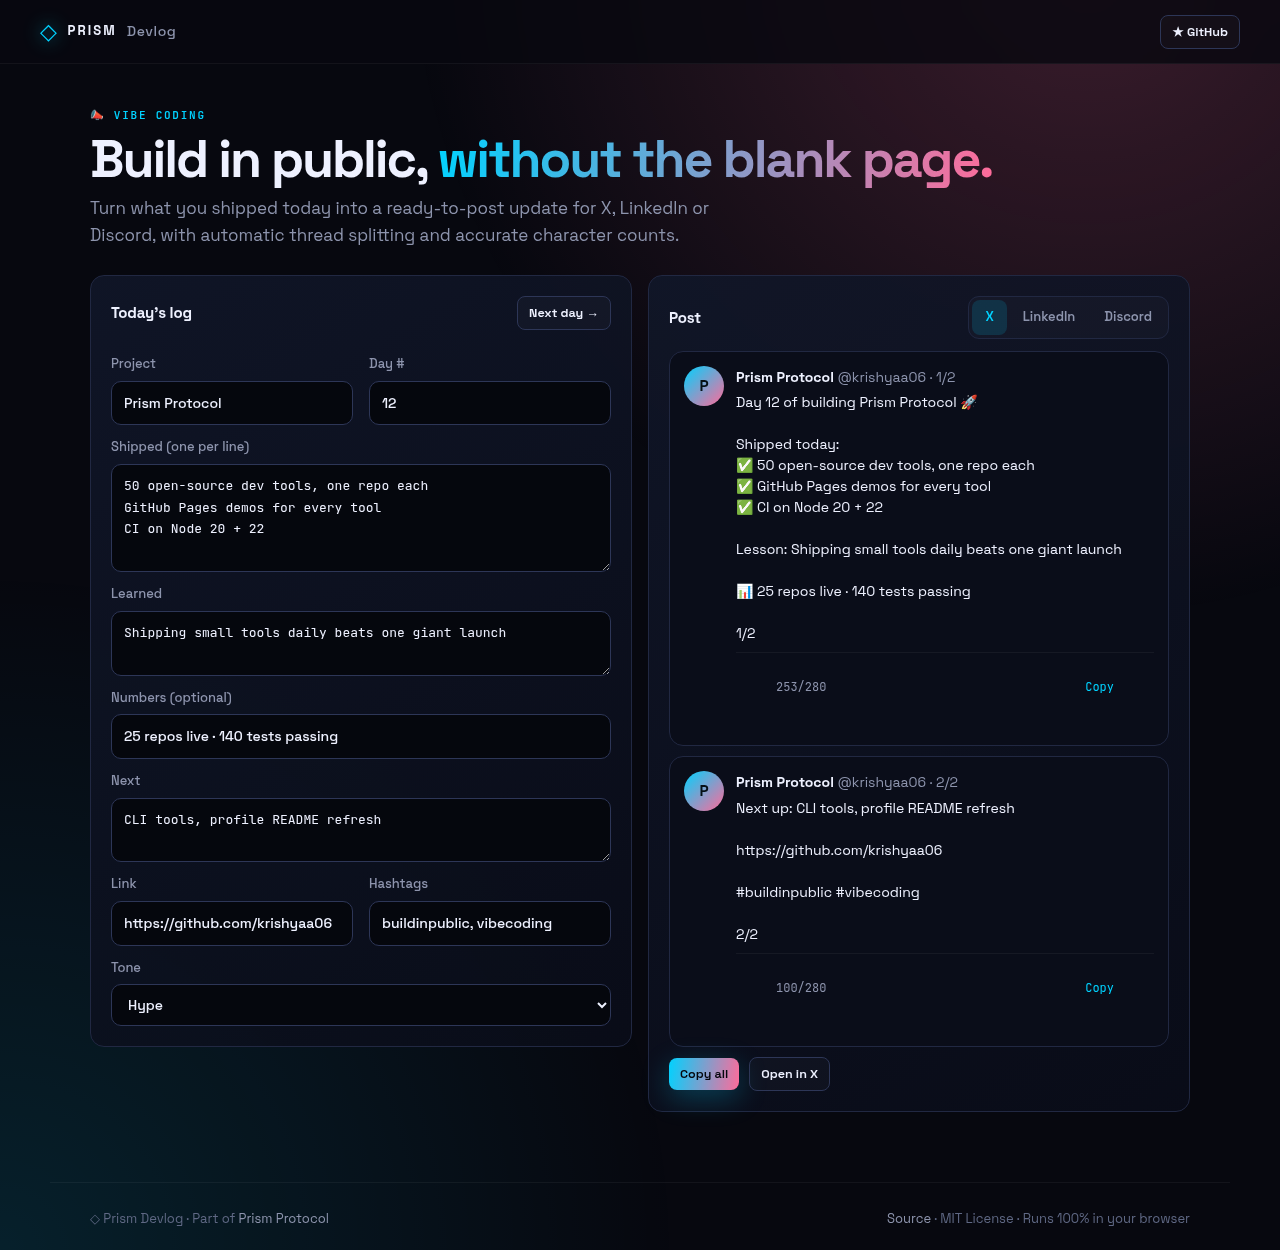
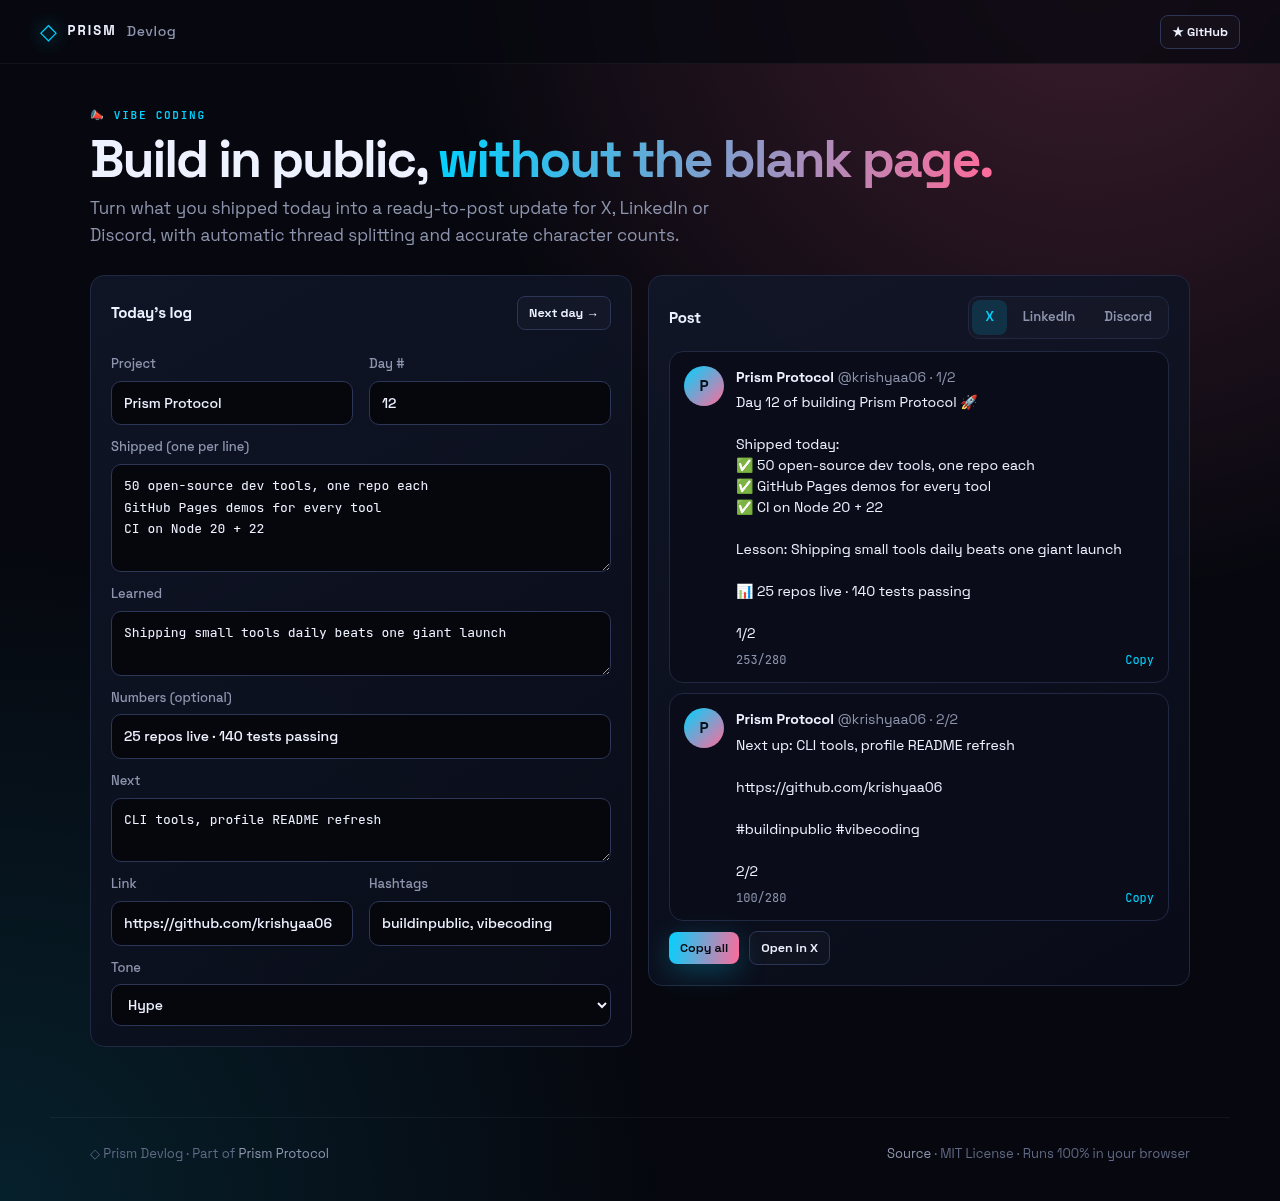
chore: update

diff --git a/js/app.js b/js/app.js
@@ -6,7 +6,7 @@
   function render() {
     store.set("dl:in", I);
     cur = Core.post(I, plat); const lim = Core.LIMITS[plat];
-    $("#posts").innerHTML = cur.thread.map((t, i) => { const n = plat === "x" ? Core.xLength(t) : t.length; return `<div class="tw"><div class="av">${esc((I.project || "P")[0])}</div><div class="body"><div class="who"><b>${esc(I.project || "You")}</b> <span>@krishyaa06${cur.thread.length > 1 ? ` · ${i + 1}/${cur.thread.length}` : ""}</span></div><div class="txt">${esc(t)}</div><div class="foot"><span class="${n > lim ? "bad" : ""}">${n}/${lim}</span><button data-i="${i}">Copy</button></div></div></div>`; }).join("");
+    $("#posts").innerHTML = cur.thread.map((t, i) => { const n = plat === "x" ? Core.xLength(t) : t.length; return `<div class="tw"><div class="av">${esc((I.project || "P")[0])}</div><div class="body"><div class="who"><b>${esc(I.project || "You")}</b> <span>@krishyaa06${cur.thread.length > 1 ? ` · ${i + 1}/${cur.thread.length}` : ""}</span></div><div class="txt">${esc(t)}</div><div class="tfoot"><span class="${n > lim ? "bad" : ""}">${n}/${lim}</span><button data-i="${i}">Copy</button></div></div></div>`; }).join("");
     $$("#posts [data-i]").forEach((b) => (b.onclick = () => copy(cur.thread[+b.dataset.i])));
     $("#intent").hidden = plat !== "x"; $("#intent").href = `https://x.com/intent/post?text=${encodeURIComponent(cur.thread[0])}`;
   }

diff --git a/css/app.css b/css/app.css
@@ -4,6 +4,6 @@
 .av{width:40px;height:40px;border-radius:50%;flex:none;background:linear-gradient(135deg,var(--accent),var(--accent-2));display:grid;place-items:center;font-weight:700;color:#061016}
 .tw .body{flex:1;min-width:0}.tw .who{font-size:14px;margin-bottom:4px}.tw .who span{color:var(--muted)}
 .tw .txt{white-space:pre-wrap;word-break:break-word;font-size:14px;line-height:1.5}
-.tw .foot{display:flex;justify-content:space-between;margin-top:8px;font:12px var(--mono);color:var(--muted)}.tw .foot .bad{color:var(--bad)}
+.tw .tfoot{display:flex;justify-content:space-between;margin-top:8px;font:12px var(--mono);color:var(--muted)}.tw .tfoot .bad{color:var(--bad)}
 .tw button{font:12px var(--mono);background:none;border:0;color:var(--accent);cursor:pointer;padding:0}
 @media (max-width:900px){.out-card{position:static}}

diff --git a/README.md b/README.md
@@ -80,6 +80,7 @@ prism-devlog/
 │   └── core.test.js
 ├── .gitignore
 ├── LICENSE
+├── README.md
 ├── index.html
 └── package.json
 ```
